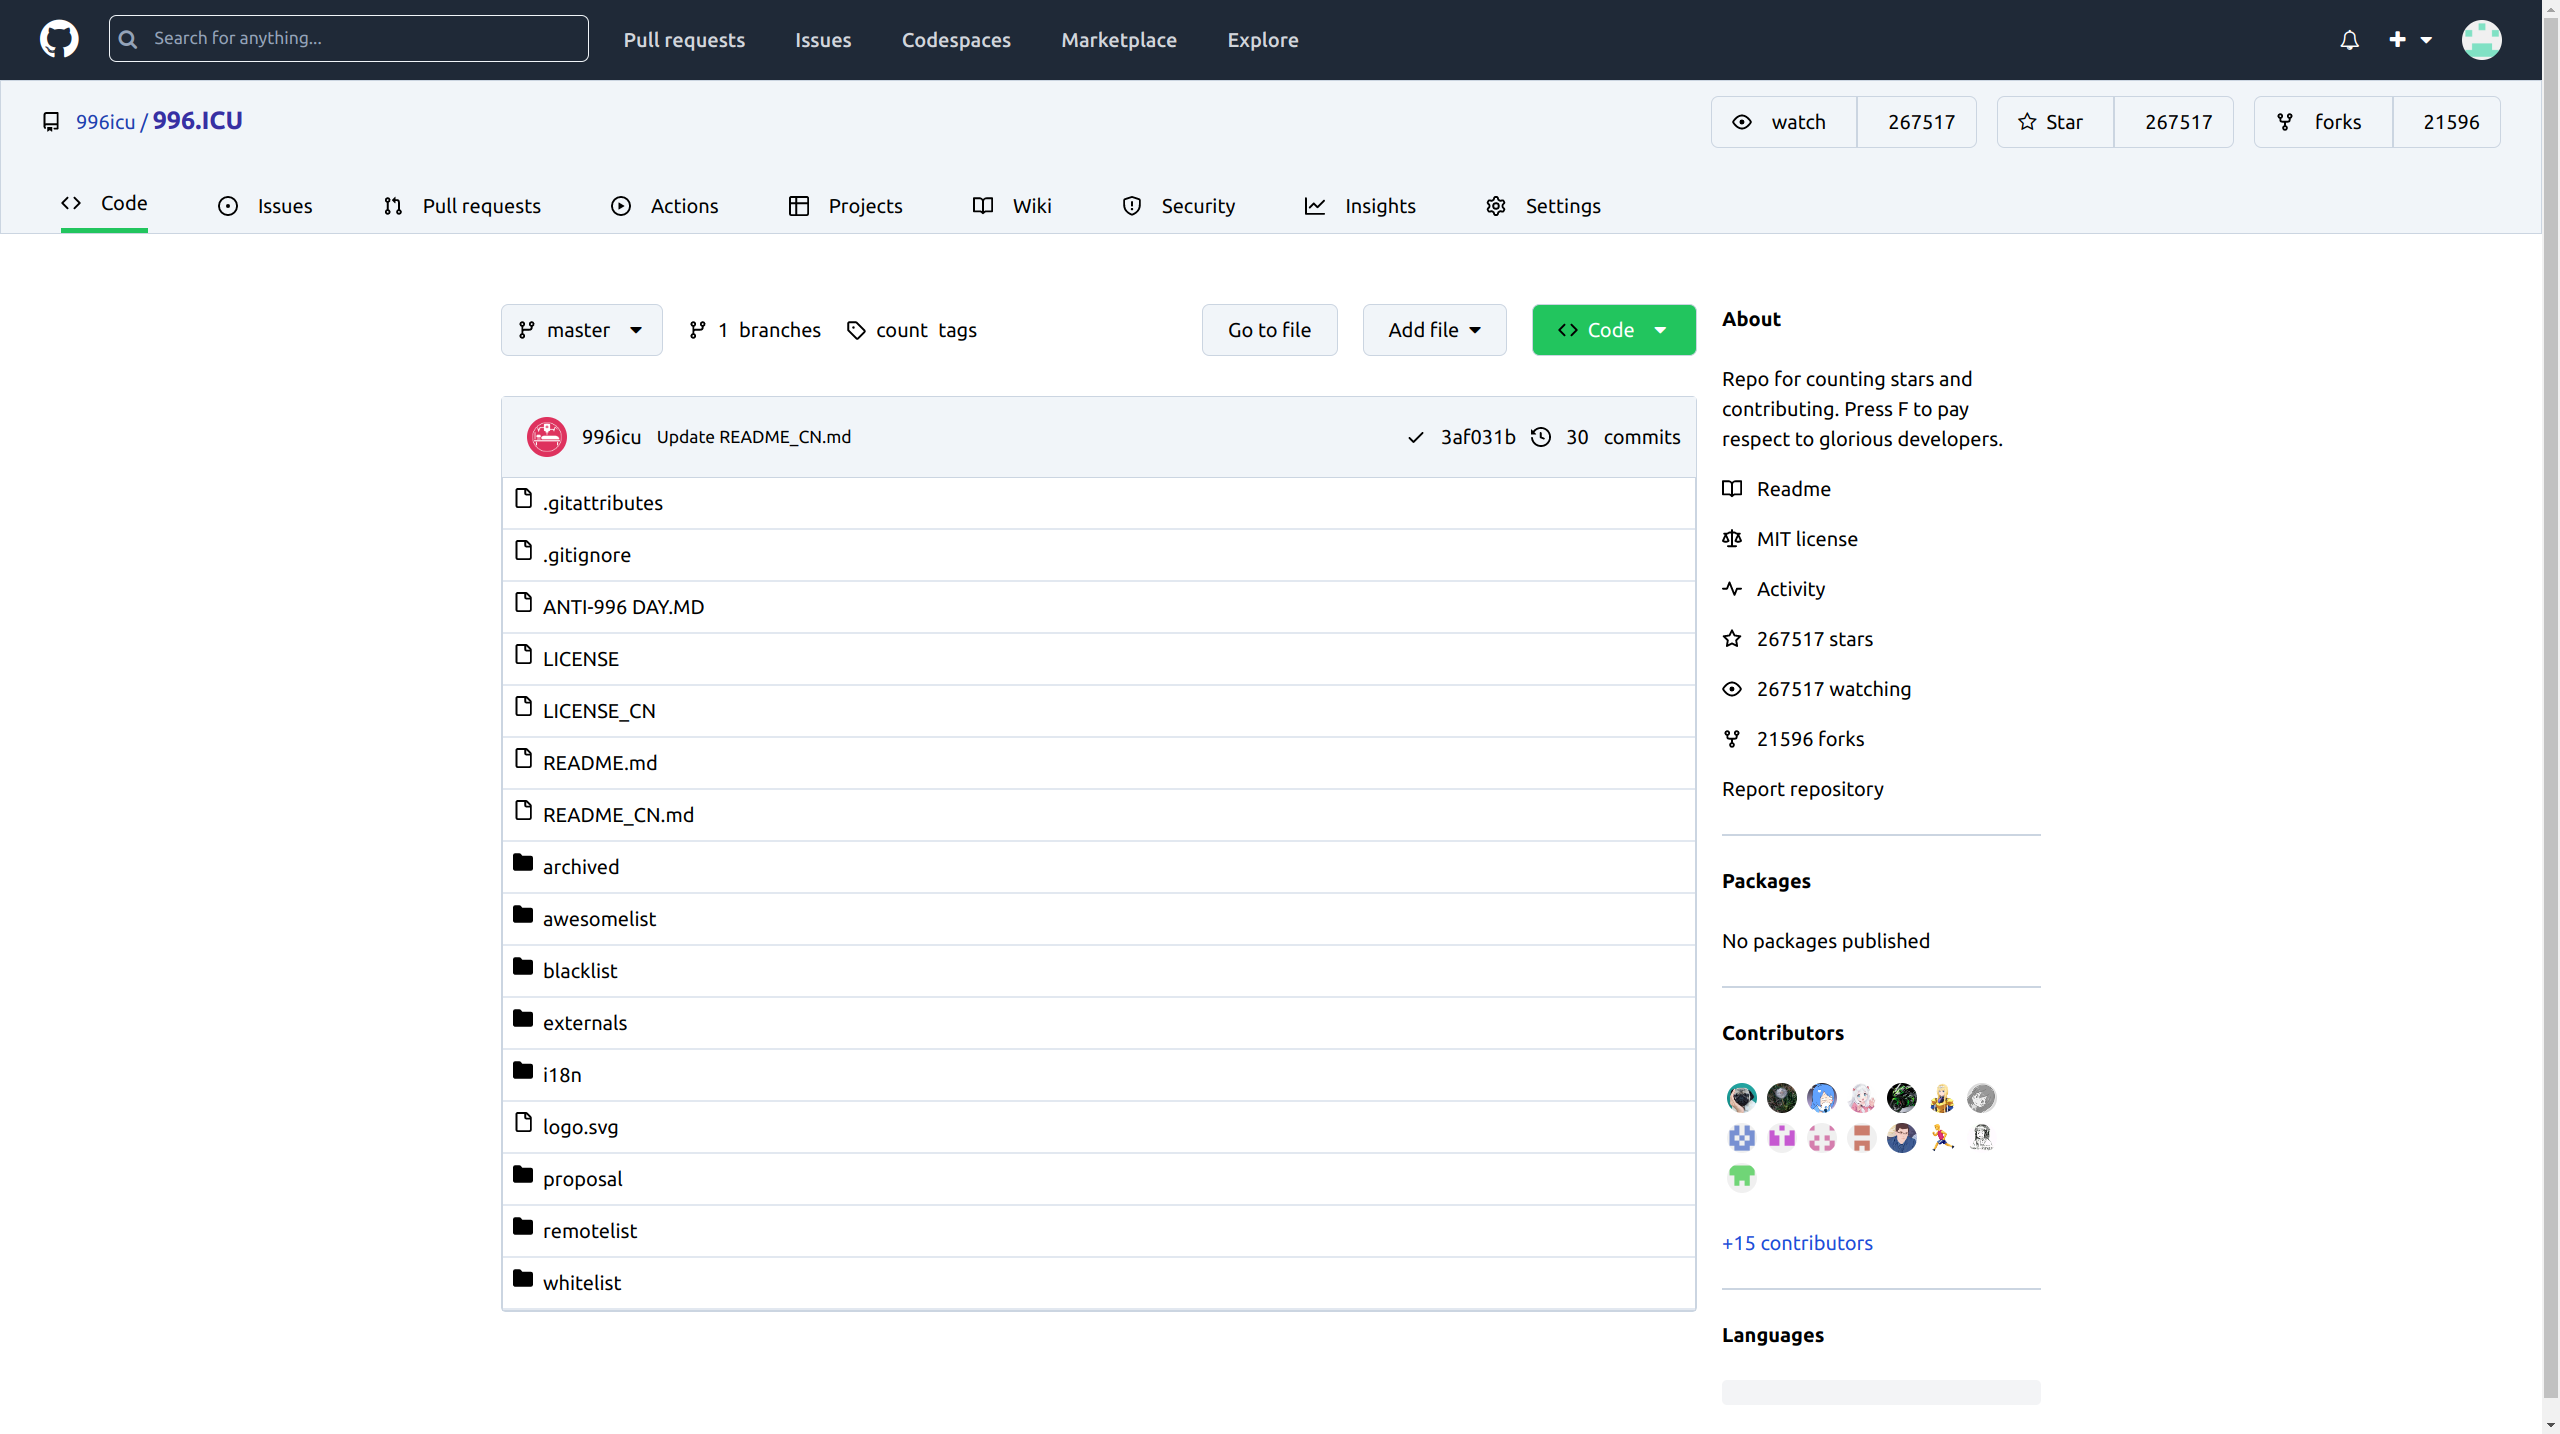
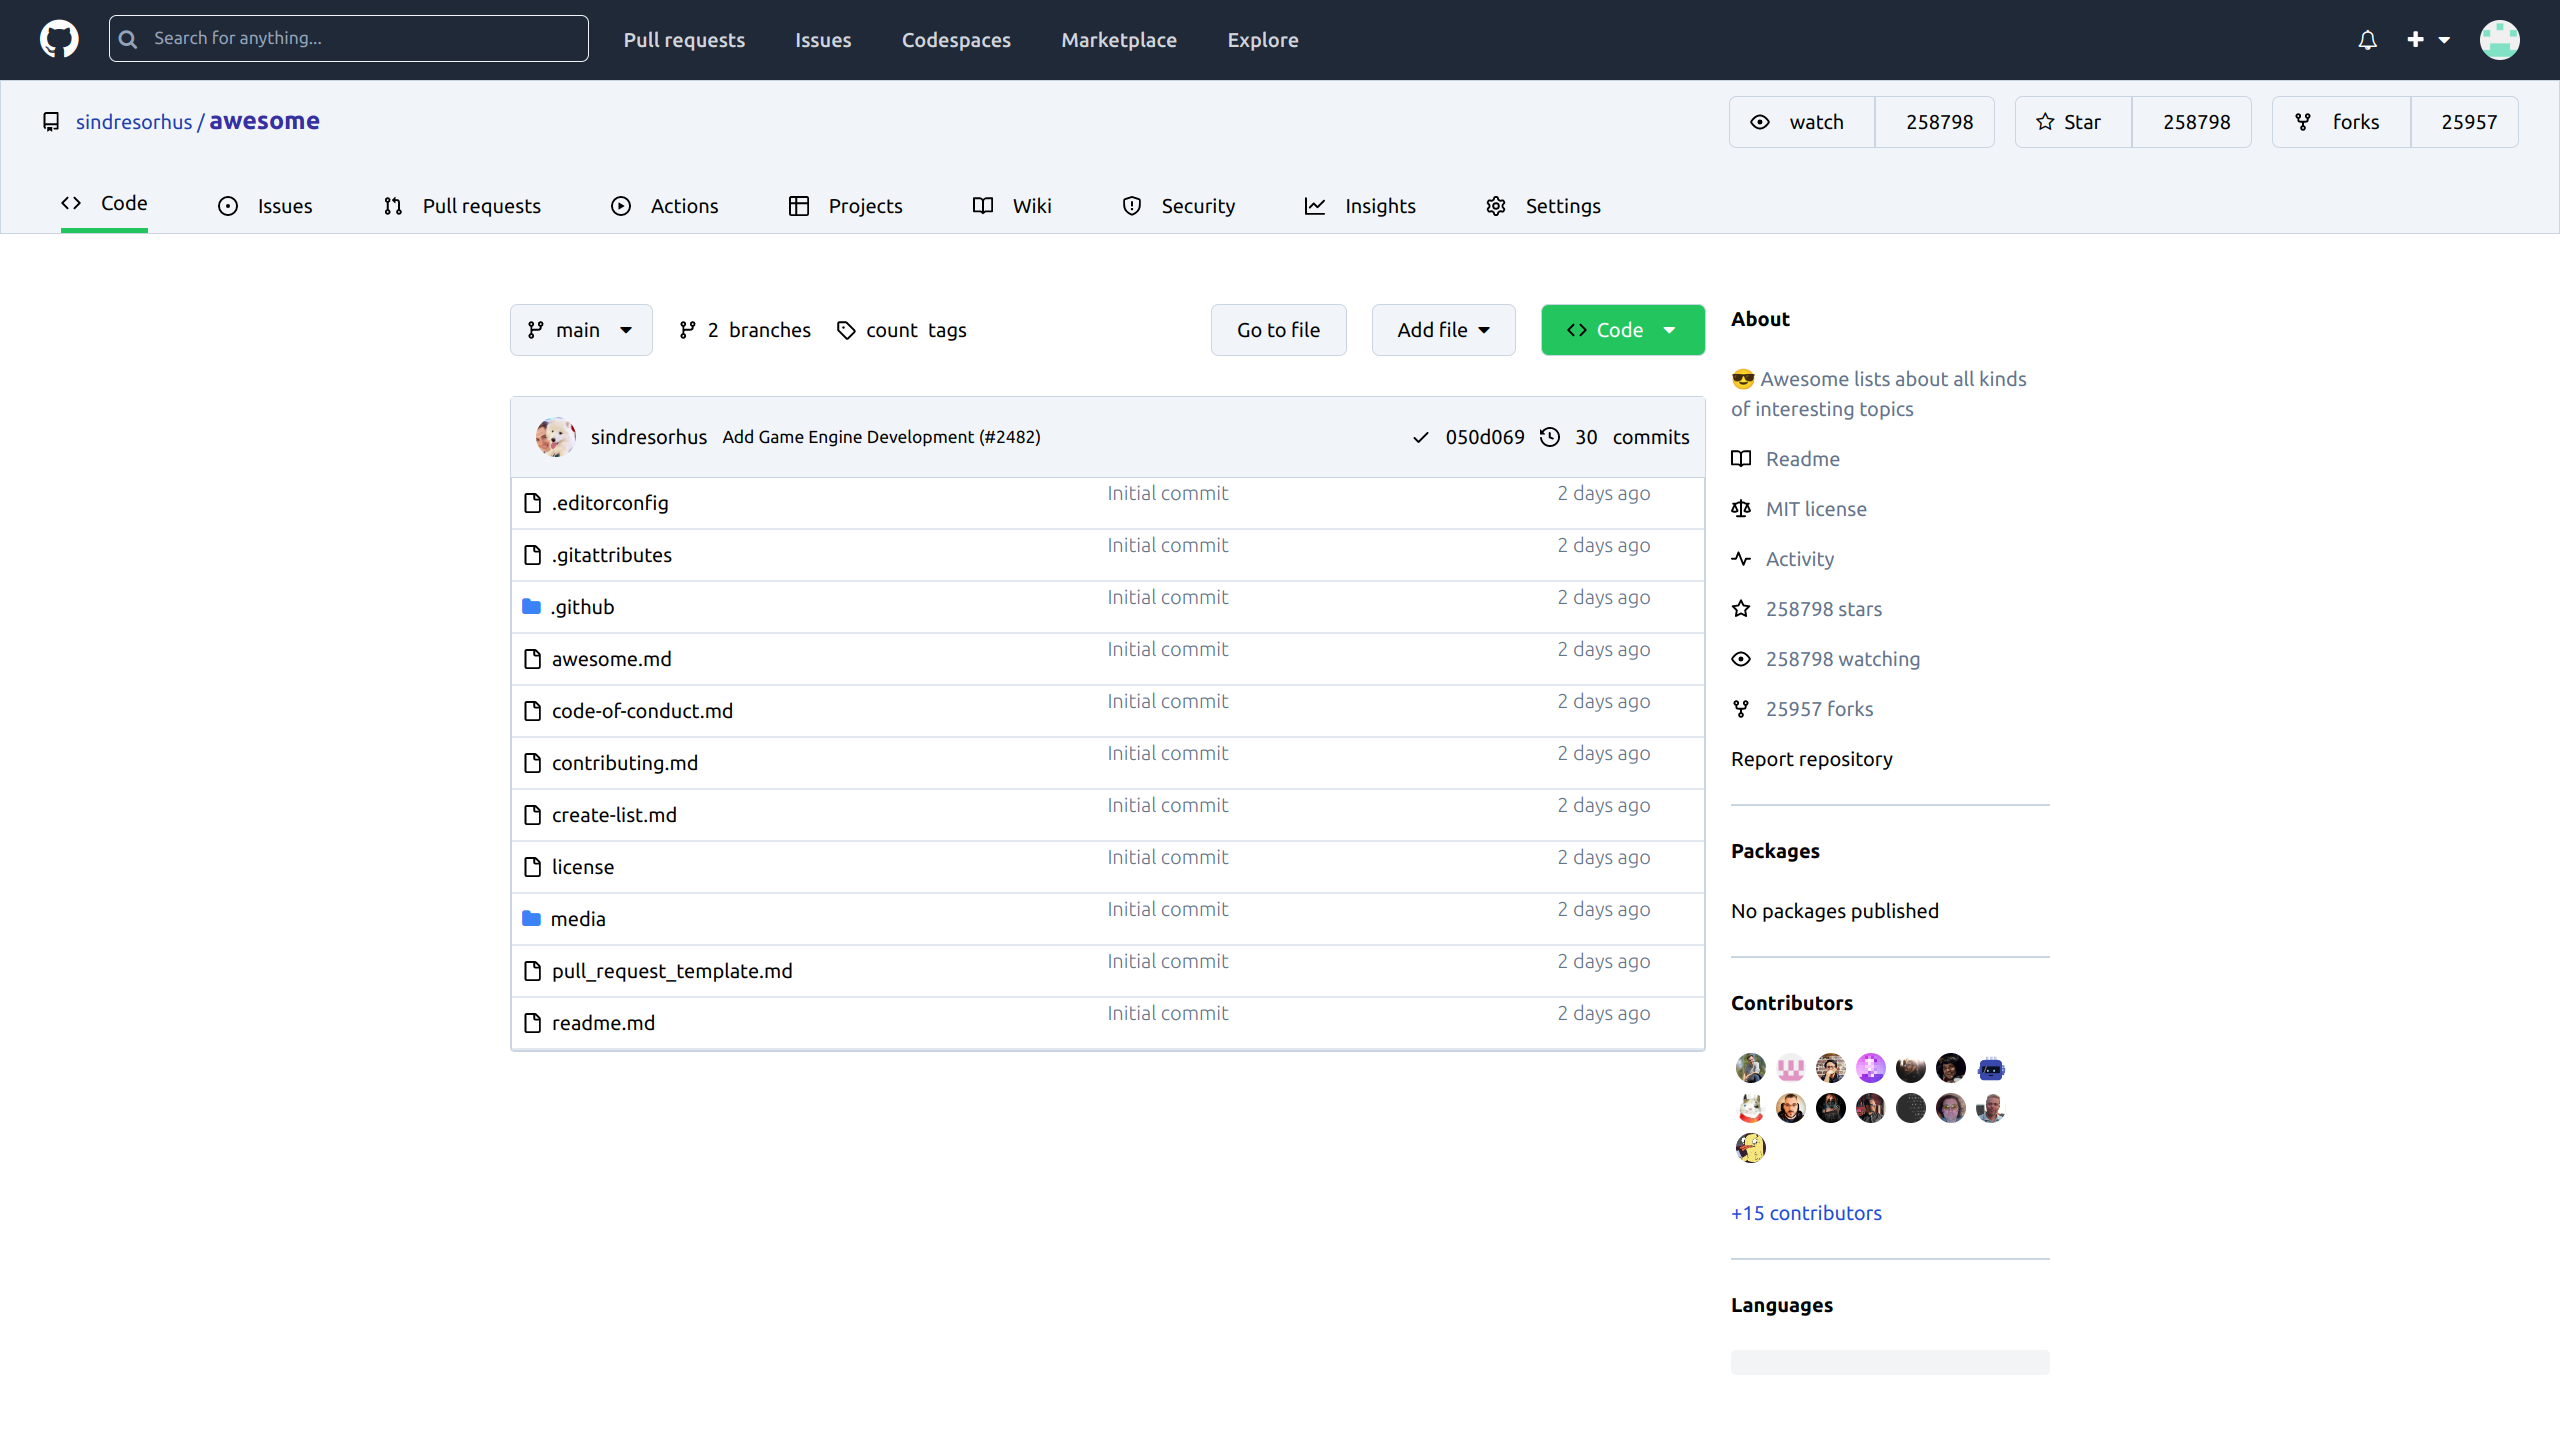
update desgin in details page

diff --git a/src/views/details.js b/src/views/details.js
@@ -313,7 +313,7 @@ export const TrendingDetails = () => {
                           class="py-2 text-sm text-gray-700 dark:text-gray-200"
                           aria-labelledby="dropdownDefaultButton"
                         >
-                          {banState.data.map((arr, i) => {
+                          {banState.data.map((arr) => {
                             if (arr.name !== data.default_branch)
                               return (
                                 <li>
@@ -452,20 +452,9 @@ export const TrendingDetails = () => {
                         return (
                           <>
                             <div className="flex justify-between">
-                              <div className="flex gap-2 p-2">
+                              <div className="flex gap-2 p-2 w-64 text-center items-center">
                                 {arr.type === "tree" ? (
-                                  <svg
-                                    aria-label="Directory"
-                                    aria-hidden="true"
-                                    height="16"
-                                    viewBox="0 0 16 16"
-                                    version="1.1"
-                                    width="16"
-                                    data-view-component="true"
-                                    class="octicon octicon-file-directory-fill hx_color-icon-directory"
-                                  >
-                                    <path d="M1.75 1A1.75 1.75 0 0 0 0 2.75v10.5C0 14.216.784 15 1.75 15h12.5A1.75 1.75 0 0 0 16 13.25v-8.5A1.75 1.75 0 0 0 14.25 3H7.5a.25.25 0 0 1-.2-.1l-.9-1.2C6.07 1.26 5.55 1 5 1H1.75Z"></path>
-                                  </svg>
+                                  <i class="fa fa-folder text-blue-500" />
                                 ) : (
                                   <svg
                                     aria-label="File"
@@ -482,6 +471,12 @@ export const TrendingDetails = () => {
                                 )}{" "}
                                 <p>{arr.path}</p>
                               </div>
+                              <p className="w-40 text-center text-slate-500 font-light">
+                                Initial commit
+                              </p>
+                              <p className="w-40 text-center text-slate-500 font-light">
+                                2 days ago
+                              </p>
                             </div>
                             <div className="border border-slate-200" />
                           </>
@@ -495,9 +490,13 @@ export const TrendingDetails = () => {
             <div className="mt-8  w-[40rem]">
               <div>
                 <h1 className="font-bold mb-6">About</h1>
-                <p className="mb-4">{data.description}</p>
+                <p className="mb-4 text-slate-500">
+                  {data?.description
+                    ? data.description
+                    : "No description, website, or topics provided."}
+                </p>
                 <div>
-                  <div className="flex gap-1 items-center mb-4">
+                  <div className="flex gap-1 items-center mb-4 text-slate-500">
                     <svg
                       aria-hidden="true"
                       height="16"
@@ -511,7 +510,7 @@ export const TrendingDetails = () => {
                     </svg>
                     <p>Readme</p>
                   </div>
-                  <div className="flex gap-1 items-center mb-4">
+                  <div className="flex gap-1 items-center mb-4 text-slate-500">
                     <svg
                       aria-hidden="true"
                       height="16"
@@ -525,7 +524,7 @@ export const TrendingDetails = () => {
                     </svg>
                     <p> MIT license</p>
                   </div>
-                  <div className="flex gap-1 items-center mb-4">
+                  <div className="flex gap-1 items-center mb-4 text-slate-500">
                     <svg
                       text="gray"
                       aria-hidden="true"
@@ -540,7 +539,7 @@ export const TrendingDetails = () => {
                     </svg>
                     <p> Activity</p>
                   </div>
-                  <div className="flex gap-1 items-center mb-4">
+                  <div className="flex gap-1 items-center mb-4 text-slate-500">
                     <svg
                       aria-hidden="true"
                       height="16"
@@ -554,7 +553,7 @@ export const TrendingDetails = () => {
                     </svg>
                     <p>{data.stargazers_count} stars</p>
                   </div>
-                  <div className="flex gap-1 items-center mb-4">
+                  <div className="flex gap-1 items-center mb-4 text-slate-500">
                     <svg
                       aria-hidden="true"
                       height="16"
@@ -568,7 +567,7 @@ export const TrendingDetails = () => {
                     </svg>
                     <p>{data.watchers_count} watching</p>
                   </div>
-                  <div className="flex gap-1 items-center mb-4">
+                  <div className="flex gap-1 items-center mb-4 text-slate-500">
                     <svg
                       aria-hidden="true"
                       height="16"
